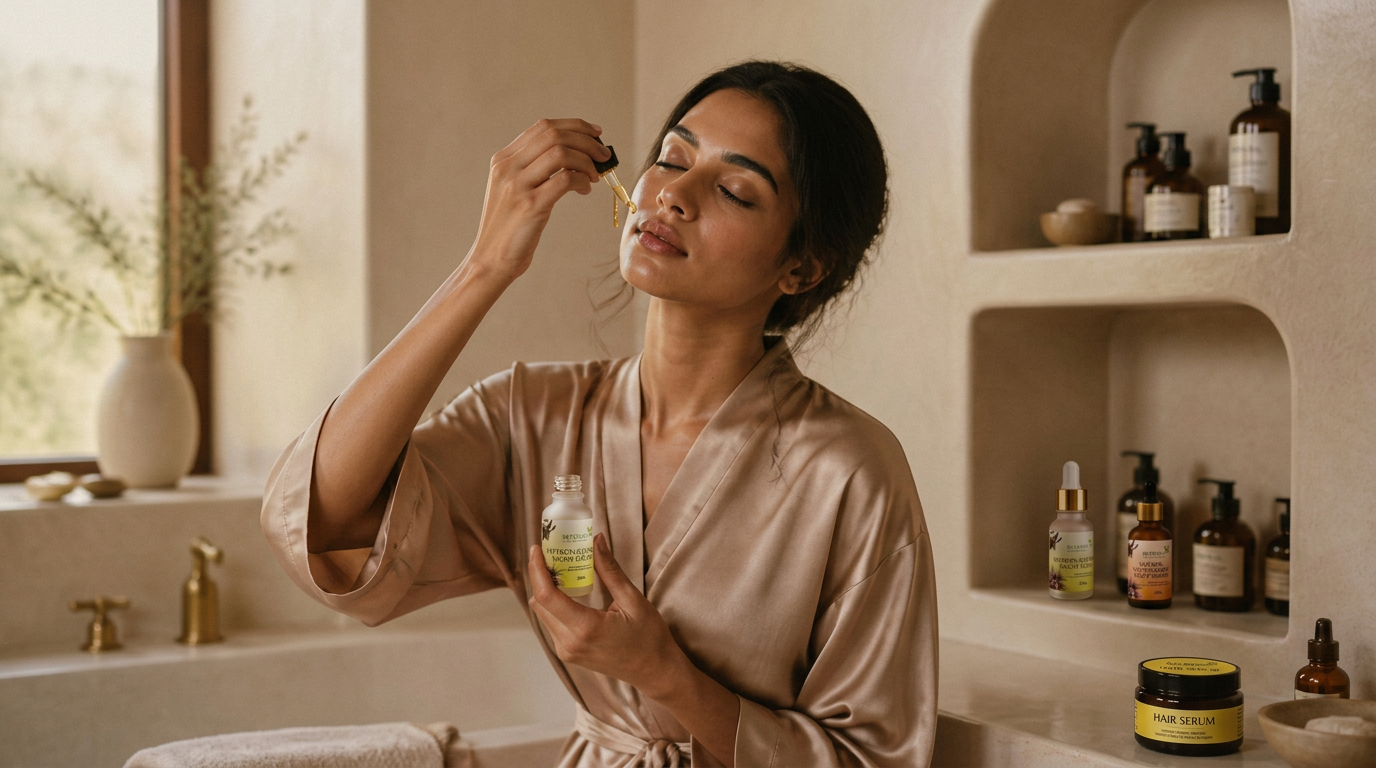
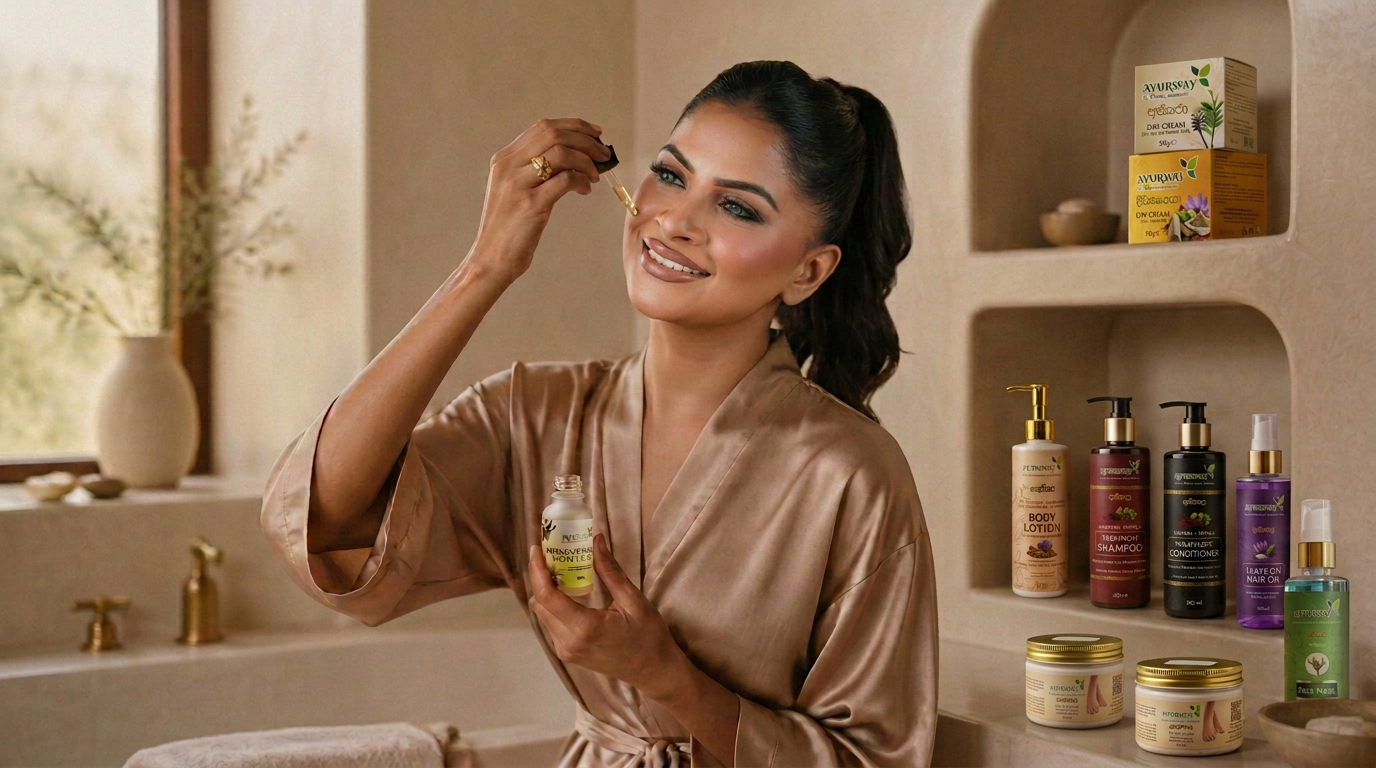
feat: update hero images and adjust SiteHeader and SiteFooter for improved layout and responsiveness

diff --git a/frontend/src/components/SiteFooter.jsx b/frontend/src/components/SiteFooter.jsx
@@ -14,8 +14,7 @@ const YoutubeIcon = () => (
 export function SiteFooter() {
   return (
     <footer id="enquire" className="bg-forest-deep text-ivory border-t border-ivory/10">
-      {/* 
-        Adjusted grid to be 2 columns on mobile, allowing lists to sit side-by-side. 
+      {/* Adjusted grid to be 2 columns on mobile, allowing lists to sit side-by-side. 
         Reduced padding-y (py-16) on mobile to fix the excessive height issue.
       */}
       <div className="mx-auto grid max-w-screen-2xl grid-cols-2 gap-x-6 gap-y-16 px-6 py-16 md:px-12 md:py-24 lg:grid-cols-12 lg:gap-12 lg:py-32">
@@ -81,9 +80,14 @@ export function SiteFooter() {
 
       {/* Copyright */}
       <div className="border-t border-ivory/10">
-        <div className="mx-auto flex max-w-screen-2xl flex-col gap-3 px-6 md:px-12 py-6 md:py-8 text-[0.55rem] md:text-[0.6rem] uppercase tracking-[0.4em] text-ivory/40 md:flex-row md:items-center md:justify-between text-center md:text-left">
+        <div className="mx-auto flex max-w-screen-2xl flex-col gap-4 px-6 md:px-12 py-6 md:py-8 text-[0.55rem] md:text-[0.6rem] uppercase tracking-[0.4em] text-ivory/40 md:flex-row md:items-center md:justify-between text-center md:text-left">
           <span>© {new Date().getFullYear()} Ayurway Lanka (Pvt) Ltd. All rights reserved.</span>
-          <span>Crafted in Sri Lanka</span>
+          <div className="flex flex-col md:flex-row items-center gap-4 md:gap-8">
+            {/* <span>Crafted in Sri Lanka</span> */}
+            <span>
+              Powered by <a href="https://adnavra.com/" target="_blank" rel="noopener noreferrer" className="text-ivory/60 hover:text-gold transition-colors duration-300">Adnavra</a>
+            </span>
+          </div>
         </div>
       </div>
     </footer>

diff --git a/frontend/src/components/SiteHeader.jsx b/frontend/src/components/SiteHeader.jsx
@@ -58,9 +58,11 @@ export function SiteHeader() {
   };
 
   const tone = scrolled || isLightPage ? "text-forest-deep" : "text-ivory";
+  
+  // Reduced padding (py-2.5 and py-4) to make the navbar vertically slimmer and more elegant
   const headerBg = scrolled 
-    ? "bg-ivory/95 backdrop-blur-lg border-b border-border py-4 shadow-sm" 
-    : "bg-transparent border-b border-transparent py-6";
+    ? "bg-ivory/95 backdrop-blur-lg border-b border-border py-2.5 shadow-sm" 
+    : "bg-transparent border-b border-transparent py-4";
 
   return (
     <header className={`fixed inset-x-0 top-0 z-50 transition-all duration-1000 ease-[cubic-bezier(0.16,1,0.3,1)] ${headerBg}`}>
@@ -80,12 +82,12 @@ export function SiteHeader() {
           ))}
         </nav>
 
-        {/* Center Logo with Image (Larger on Mobile and Desktop) */}
+        {/* Center Logo with Image */}
         <Link to="/" className="flex flex-1 flex-col items-center justify-center leading-none text-center z-50 relative group" aria-label="Ayurway home">
           <img
             src={logo}
             alt="Ayurway by Ishara Sandamini"
-            className={`w-[210px] transition-all duration-700 md:w-[250px] ${
+            className={`w-[180px] transition-all duration-700 md:w-[220px] ${
               scrolled || isLightPage ? "" : "brightness-0 invert"
             }`}
           />
